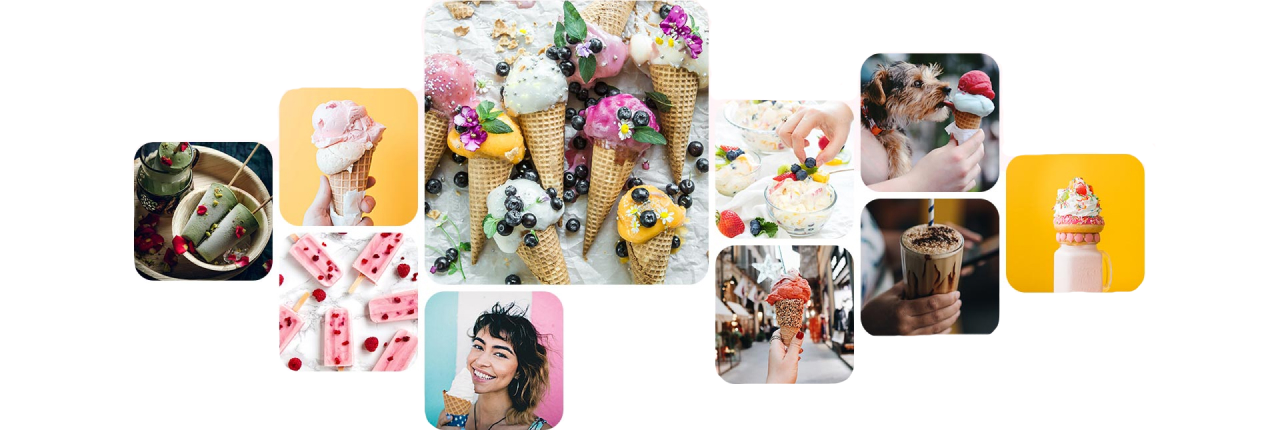
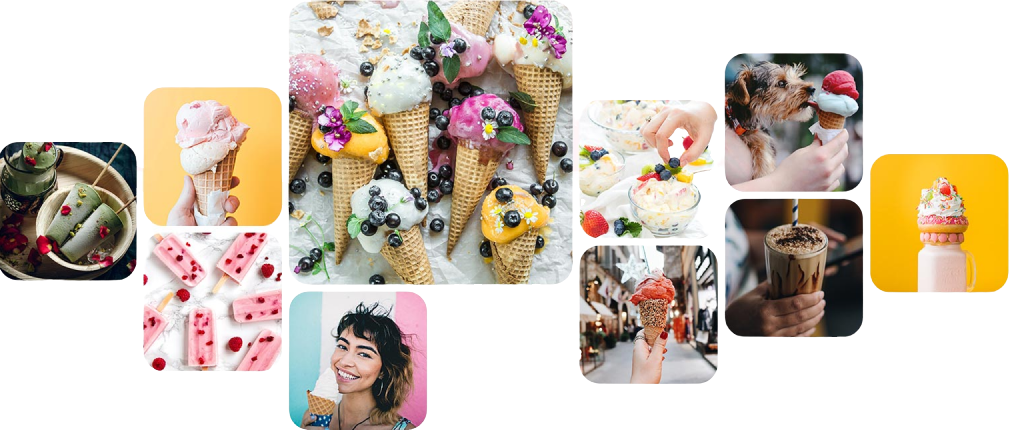
Покращення зображень галереї та градієнтний фон

diff --git a/src/partials/gallery.html b/src/partials/gallery.html
@@ -1,5 +1,25 @@
 <section class="gallery " id="gallery">
     <div class="container gallery__box">
-        <div class="gallery__photo"></div>
+        <!--<div class="gallery__photo"></div>-->
+        
+        <picture>
+            <source
+                srcset="./images/gallery/gallery_ds_335@1x.webp 1x, ./images/gallery/gallery_ds_335@2x.webp 2x"
+                media="(min-width: 1200px)" type="image/webp">
+            <source
+                srcset="./images/gallery/gallery_ds_335@1x.png 1x, ./images/gallery/gallery_ds_335@2x.png 2x"
+                media="(min-width: 1200px)">
+            <source srcset="./images/gallery/gallery_tb_335@1x.webp 1x, ./images/gallery/gallery_tb_335@2x.webp 2x"
+                media="(min-width: 768px)" type="image/webp">
+            <source srcset="./images/gallery/gallery_tb_335@1x.png 1x, ./images/gallery/gallery_tb_335@2x.png 2x"
+                media="(min-width: 768px)">
+            <source srcset="./images/gallery/gallery_mb_335@1x.webp 1x, ./images/gallery/gallery_mb_335@2x.webp
+                        2x" media="(min-width: 320px)" type="image/webp">
+            <source srcset="./images/gallery/gallery_mb_335@1x.png 1x, ./images/gallery/gallery_mb_335@2x.png 2x"
+                media="(min-width: 320px)">
+            <img src="./images/gallery/gallery_mb_335@1x.png" alt="gallery" />
+        </picture>
+
+
     </div>
 </section>

diff --git a/src/sass/layout/_gallery.scss b/src/sass/layout/_gallery.scss
@@ -1,13 +1,17 @@
 .gallery {
   background-image: linear-gradient(
     to bottom,
-       
     $secondary-brand-color 40%,
+    #ffffff 40%,
     #ffffff 60%
   ); 
 }
 //$secondary-brand-color 17%
-//.gallery__box {}
+.gallery__box {
+  display: flex;
+  justify-content: center;
+  align-items: center;
+}
 
 .gallery__photo{
  // position: absolute;
@@ -21,6 +25,7 @@
   background-position: center;
   background-size: contain;
   background-repeat: no-repeat;
+ 
 
   //transform: translateY(50%);
   @media screen and (min-width: 768px) {
